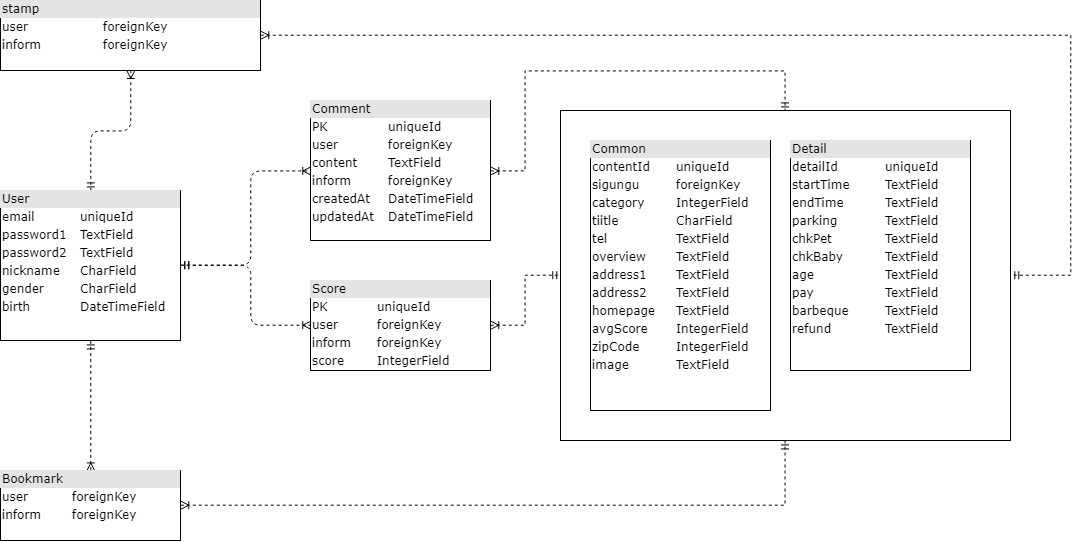
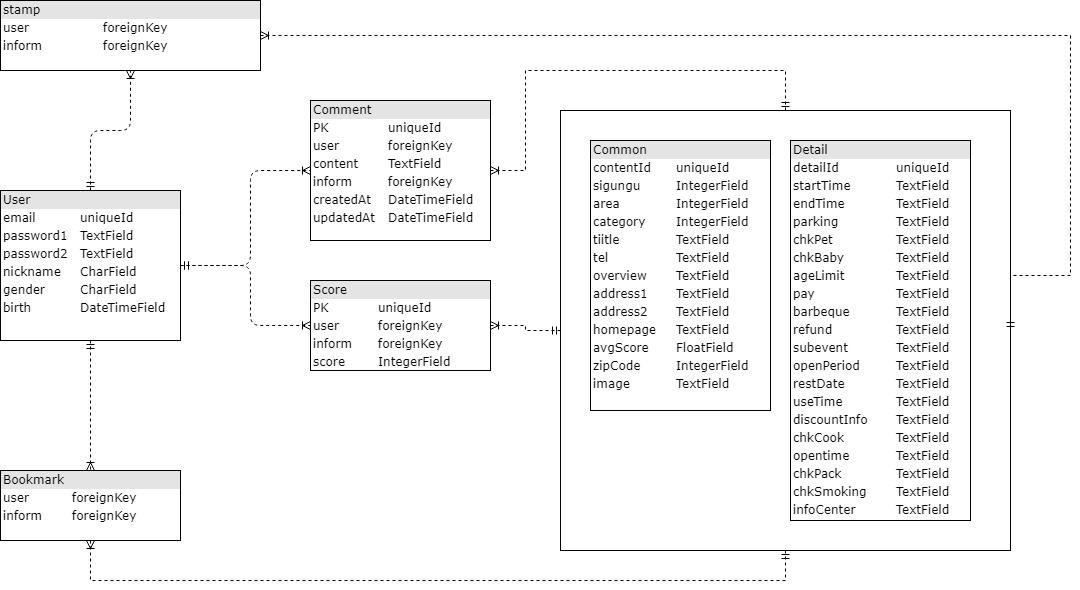
DB detail model 수정|draw.io 수정

diff --git a/maps/migrations/0001_initial.py b/maps/migrations/0001_initial.py
@@ -1,6 +1,8 @@
-# Generated by Django 2.2.3 on 2019-07-24 03:08
+# Generated by Django 2.2.3 on 2019-07-24 05:27
 
+from django.conf import settings
 from django.db import migrations, models
+import django.db.models.deletion
 
 
 class Migration(migrations.Migration):
@@ -8,16 +10,101 @@ class Migration(migrations.Migration):
     initial = True
 
     dependencies = [
+        migrations.swappable_dependency(settings.AUTH_USER_MODEL),
     ]
 
     operations = [
         migrations.CreateModel(
-            name='DetailInform',
+            name='Common',
             fields=[
                 ('id', models.AutoField(auto_created=True, primary_key=True, serialize=False, verbose_name='ID')),
-                ('title', models.CharField(max_length=100)),
-                ('image_lists', models.TextField()),
-                ('content', models.TextField()),
+                ('contentId', models.IntegerField(unique=True)),
+                ('sigungu', models.IntegerField()),
+                ('area', models.IntegerField()),
+                ('category', models.IntegerField()),
+                ('title', models.TextField()),
+                ('tel', models.TextField()),
+                ('overview', models.TextField()),
+                ('addr1', models.TextField()),
+                ('addr2', models.TextField()),
+                ('homepage', models.TextField()),
+                ('avgScore', models.FloatField()),
+                ('zipCode', models.IntegerField()),
+                ('image', models.TextField()),
             ],
+        ),
+        migrations.CreateModel(
+            name='Detail',
+            fields=[
+                ('id', models.AutoField(auto_created=True, primary_key=True, serialize=False, verbose_name='ID')),
+                ('startTime', models.TextField()),
+                ('endTime', models.TextField()),
+                ('parking', models.TextField()),
+                ('chkPet', models.TextField()),
+                ('chkBaby', models.TextField()),
+                ('restDate', models.TextField()),
+                ('useTime', models.TextField()),
+                ('ageLimit', models.TextField()),
+                ('pay', models.TextField()),
+                ('barbeque', models.TextField()),
+                ('refund', models.TextField()),
+                ('subevent', models.TextField()),
+                ('openPeriod', models.TextField()),
+                ('discountInfo', models.TextField()),
+                ('chkCook', models.TextField()),
+                ('openTime', models.TextField()),
+                ('chkPack', models.TextField()),
+                ('chkSmoking', models.TextField()),
+                ('infoCenter', models.TextField()),
+                ('detailId', models.ForeignKey(on_delete=django.db.models.deletion.CASCADE, to='maps.Common')),
+            ],
+        ),
+        migrations.CreateModel(
+            name='Stamp',
+            fields=[
+                ('id', models.AutoField(auto_created=True, primary_key=True, serialize=False, verbose_name='ID')),
+                ('inform', models.ForeignKey(on_delete=django.db.models.deletion.CASCADE, to='maps.Common')),
+                ('user', models.ForeignKey(on_delete=django.db.models.deletion.CASCADE, to=settings.AUTH_USER_MODEL)),
+            ],
+            options={
+                'unique_together': {('user', 'inform')},
+            },
+        ),
+        migrations.CreateModel(
+            name='Score',
+            fields=[
+                ('id', models.AutoField(auto_created=True, primary_key=True, serialize=False, verbose_name='ID')),
+                ('score', models.IntegerField()),
+                ('inform', models.ForeignKey(on_delete=django.db.models.deletion.CASCADE, to='maps.Common')),
+                ('user', models.ForeignKey(on_delete=django.db.models.deletion.CASCADE, to=settings.AUTH_USER_MODEL)),
+            ],
+            options={
+                'unique_together': {('user', 'inform')},
+            },
+        ),
+        migrations.CreateModel(
+            name='Comment',
+            fields=[
+                ('id', models.AutoField(auto_created=True, primary_key=True, serialize=False, verbose_name='ID')),
+                ('content', models.TextField()),
+                ('createdAt', models.DateTimeField(auto_now_add=True)),
+                ('updatedAt', models.DateTimeField(auto_now=True)),
+                ('inform', models.ForeignKey(on_delete=django.db.models.deletion.CASCADE, to='maps.Common')),
+                ('user', models.ForeignKey(on_delete=django.db.models.deletion.CASCADE, to=settings.AUTH_USER_MODEL)),
+            ],
+            options={
+                'unique_together': {('user', 'inform')},
+            },
+        ),
+        migrations.CreateModel(
+            name='Bookmark',
+            fields=[
+                ('id', models.AutoField(auto_created=True, primary_key=True, serialize=False, verbose_name='ID')),
+                ('inform', models.ForeignKey(on_delete=django.db.models.deletion.CASCADE, to='maps.Common')),
+                ('user', models.ForeignKey(on_delete=django.db.models.deletion.CASCADE, to=settings.AUTH_USER_MODEL)),
+            ],
+            options={
+                'unique_together': {('user', 'inform')},
+            },
         ),
     ]

diff --git a/maps/models.py b/maps/models.py
@@ -3,7 +3,7 @@ from accounts.models import MyUser
 
 # Create your models here.
 class Common(models.Model):
-    contentId = models.IntegerField(unique=True, primary_key=True)
+    contentId = models.IntegerField(unique=True)
     sigungu = models.IntegerField()
     area = models.IntegerField()
     category = models.IntegerField()
@@ -27,13 +27,23 @@ class Detail(models.Model):
     parking = models.TextField()
     chkPet = models.TextField()
     chkBaby = models.TextField()
-    age =  models.TextField()
+    restDate = models.TextField()
+    useTime = models.TextField()
+    ageLimit =  models.TextField()
     pay = models.TextField()
     barbeque = models.TextField()
     refund = models.TextField()
+    subevent = models.TextField()
+    openPeriod = models.TextField()
+    discountInfo = models.TextField()
+    chkCook = models.TextField()
+    openTime = models.TextField()
+    chkPack = models.TextField()
+    chkSmoking = models.TextField()
+    infoCenter = models.TextField()
 
 class Bookmark(models.Model):
-    user = models.ForeignKey(MyUser, on_delete=models.CASCADE, primary_key=True)
+    user = models.ForeignKey(MyUser, on_delete=models.CASCADE)
     inform = models.ForeignKey(Common, on_delete=models.CASCADE)
 
     class Meta:
@@ -41,14 +51,14 @@ class Bookmark(models.Model):
 
 
 class Stamp(models.Model):
-    user = models.ForeignKey(MyUser, on_delete=models.CASCADE, primary_key=True)
+    user = models.ForeignKey(MyUser, on_delete=models.CASCADE)
     inform = models.ForeignKey(Common, on_delete=models.CASCADE)
 
     class Meta:
         unique_together = ("user", "inform")
 
 class Comment(models.Model):
-    user = models.ForeignKey(MyUser, on_delete=models.CASCADE, primary_key=True)
+    user = models.ForeignKey(MyUser, on_delete=models.CASCADE)
     inform = models.ForeignKey(Common, on_delete=models.CASCADE)
     content = models.TextField()
     createdAt = models.DateTimeField(auto_now_add=True)
@@ -61,7 +71,7 @@ class Comment(models.Model):
         unique_together = ("user", "inform")
 
 class Score(models.Model):
-    user = models.ForeignKey(MyUser, on_delete=models.CASCADE, primary_key=True)
+    user = models.ForeignKey(MyUser, on_delete=models.CASCADE)
     inform = models.ForeignKey(Common, on_delete=models.CASCADE)
     score = models.IntegerField()
 

diff --git a/travel/settings.py b/travel/settings.py
@@ -86,7 +86,7 @@ DATABASES = {
         'NAME': 'travel',  #mysql
         'USER': 'root', #root
         'PASSWORD': 'ssafydif', #1234
-        'HOST': '127.0.0.1', #공백으로 냅두면 default localhost
+        'HOST': '192.168.31.83', #공백으로 냅두면 default localhost
         'PORT': '' #공백으로 냅두면 default 3306
     }
 }

diff --git a/accounts/migrations/0001_initial.py b/accounts/migrations/0001_initial.py
@@ -1,4 +1,4 @@
-# Generated by Django 2.2.3 on 2019-07-24 02:52
+# Generated by Django 2.2.3 on 2019-07-24 05:18
 
 import django.contrib.auth.models
 import django.contrib.auth.validators
